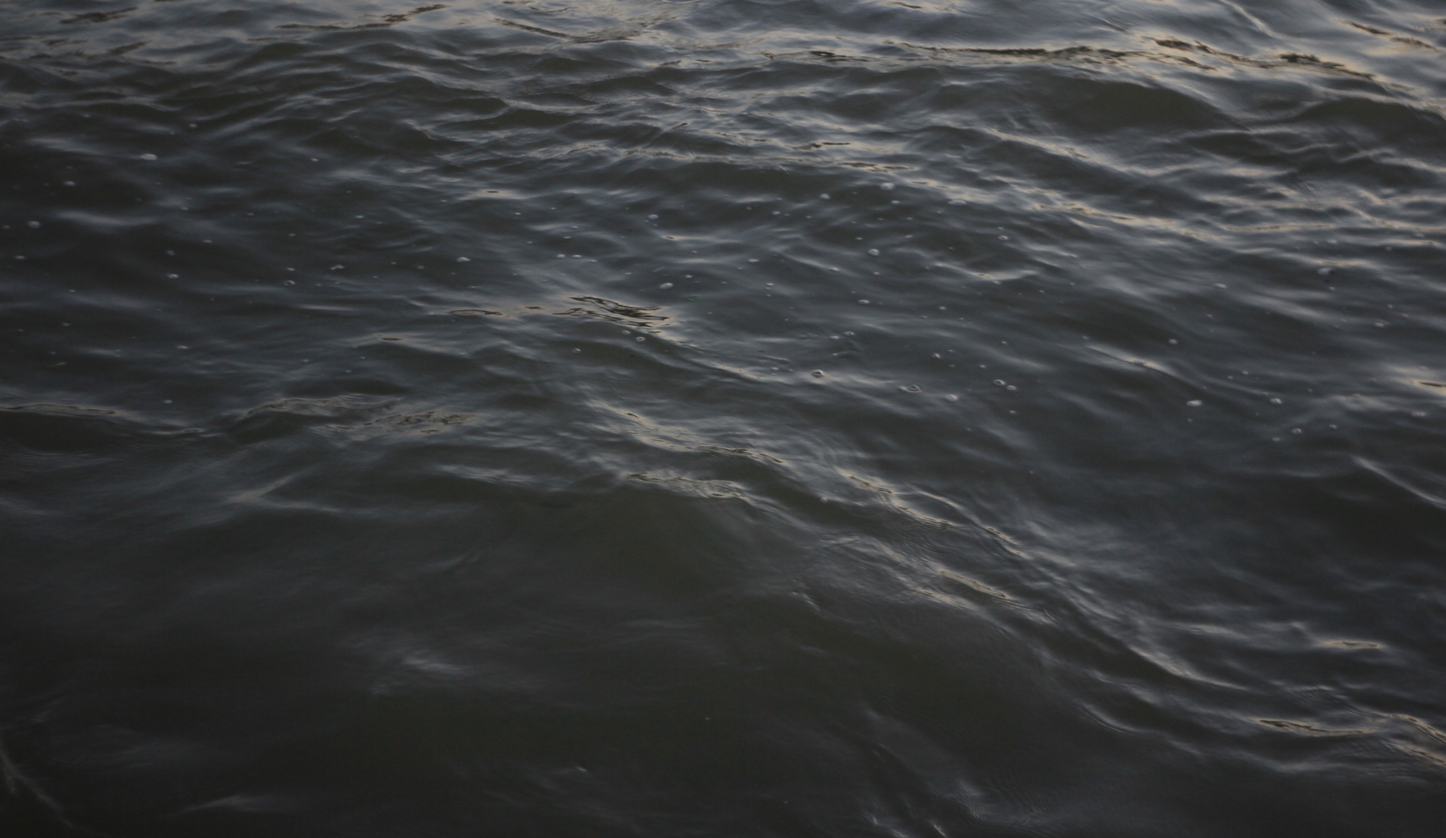
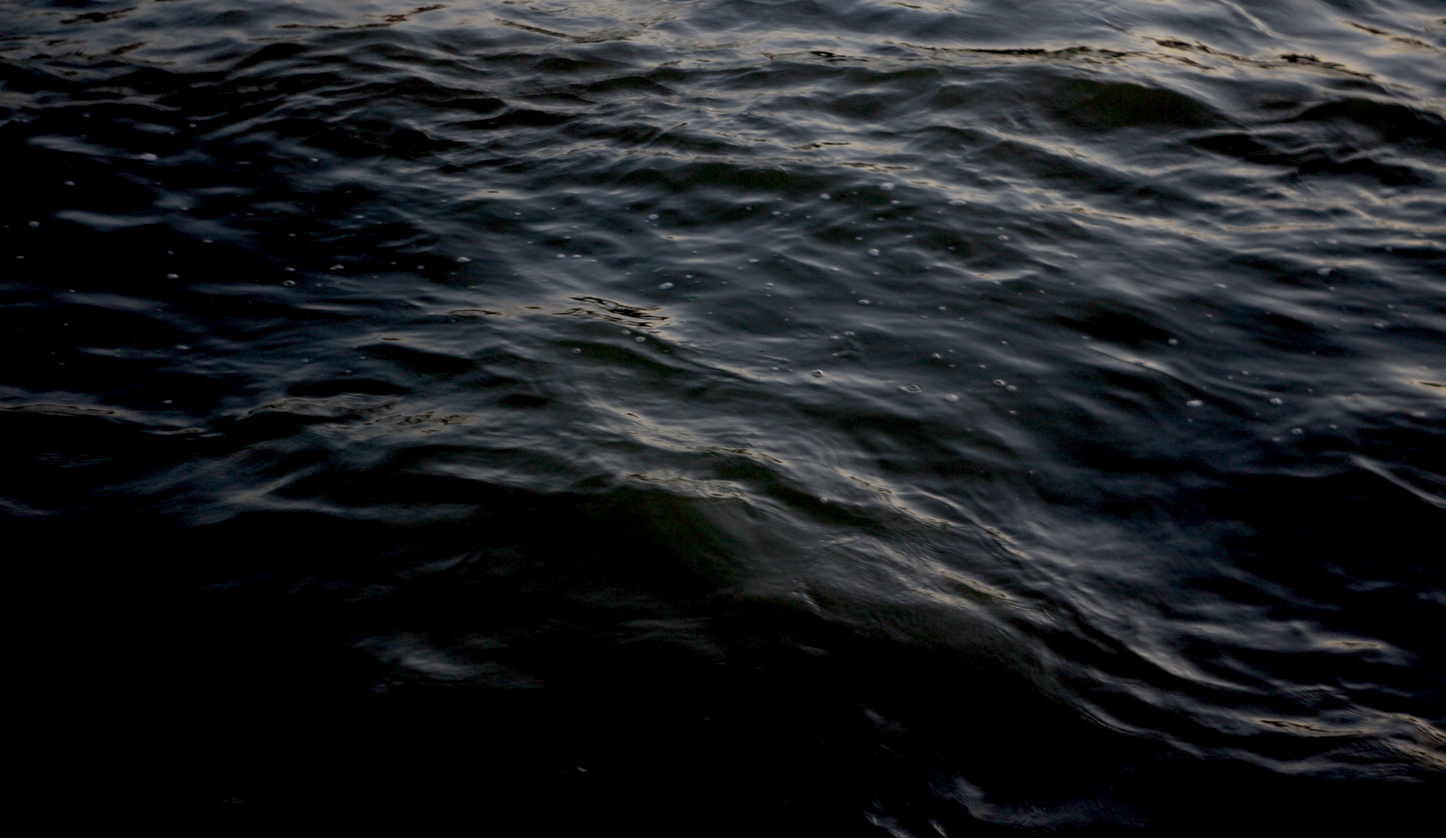
update

diff --git a/master.css b/master.css
@@ -6,7 +6,6 @@
 .bg-img {
     /* Background image */
     background-image: url('assets/water-bg.jpg');
-    opacity: 1.8;
     /* Full-screen */
     height: 100%;
     /* Center the background image */
